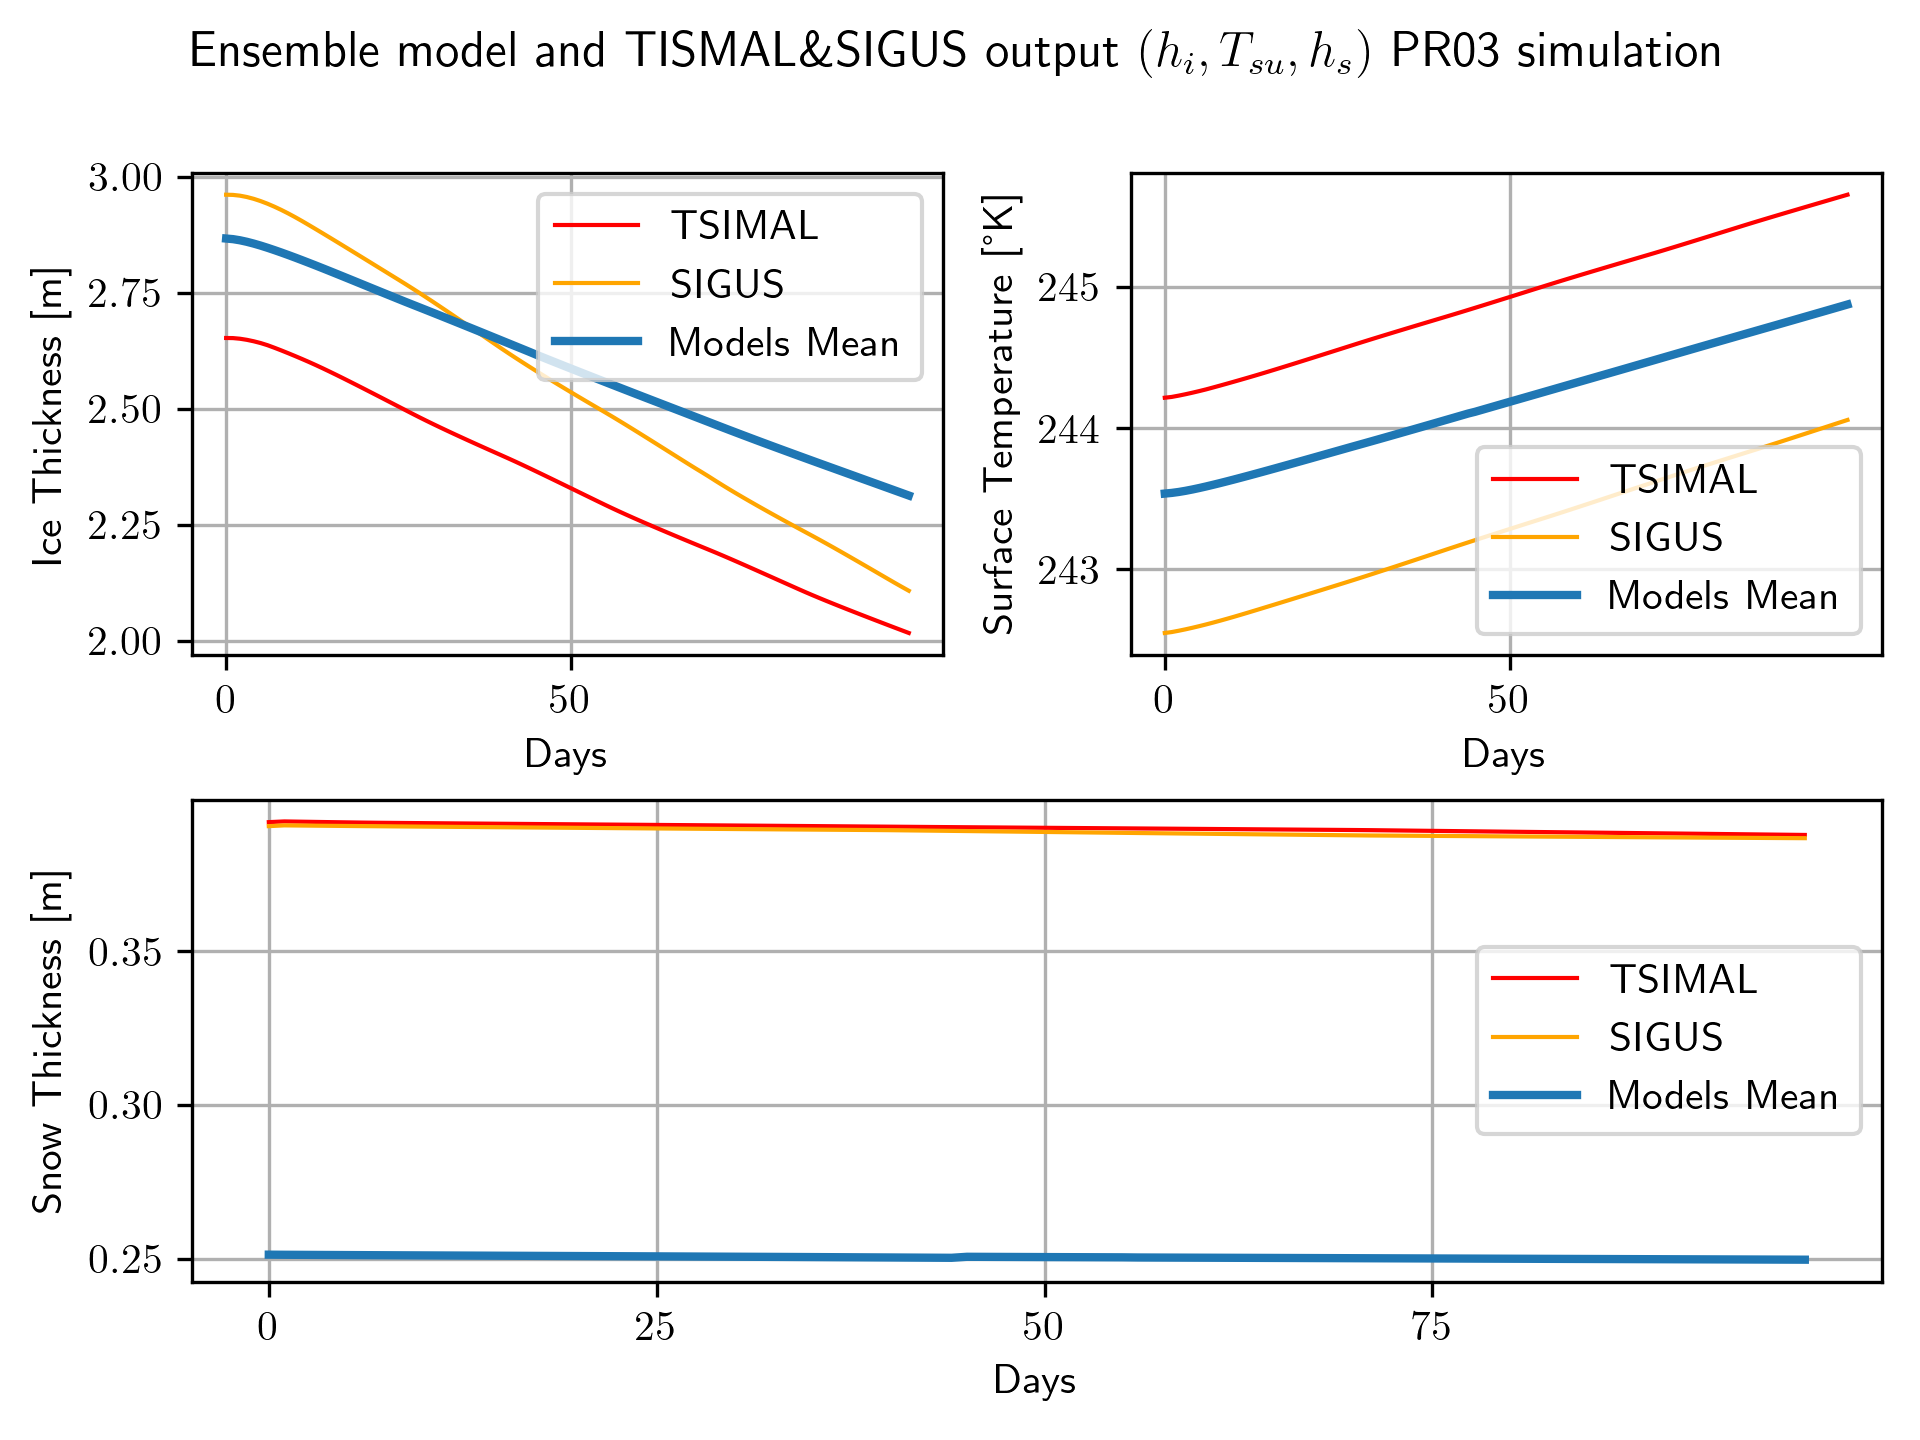
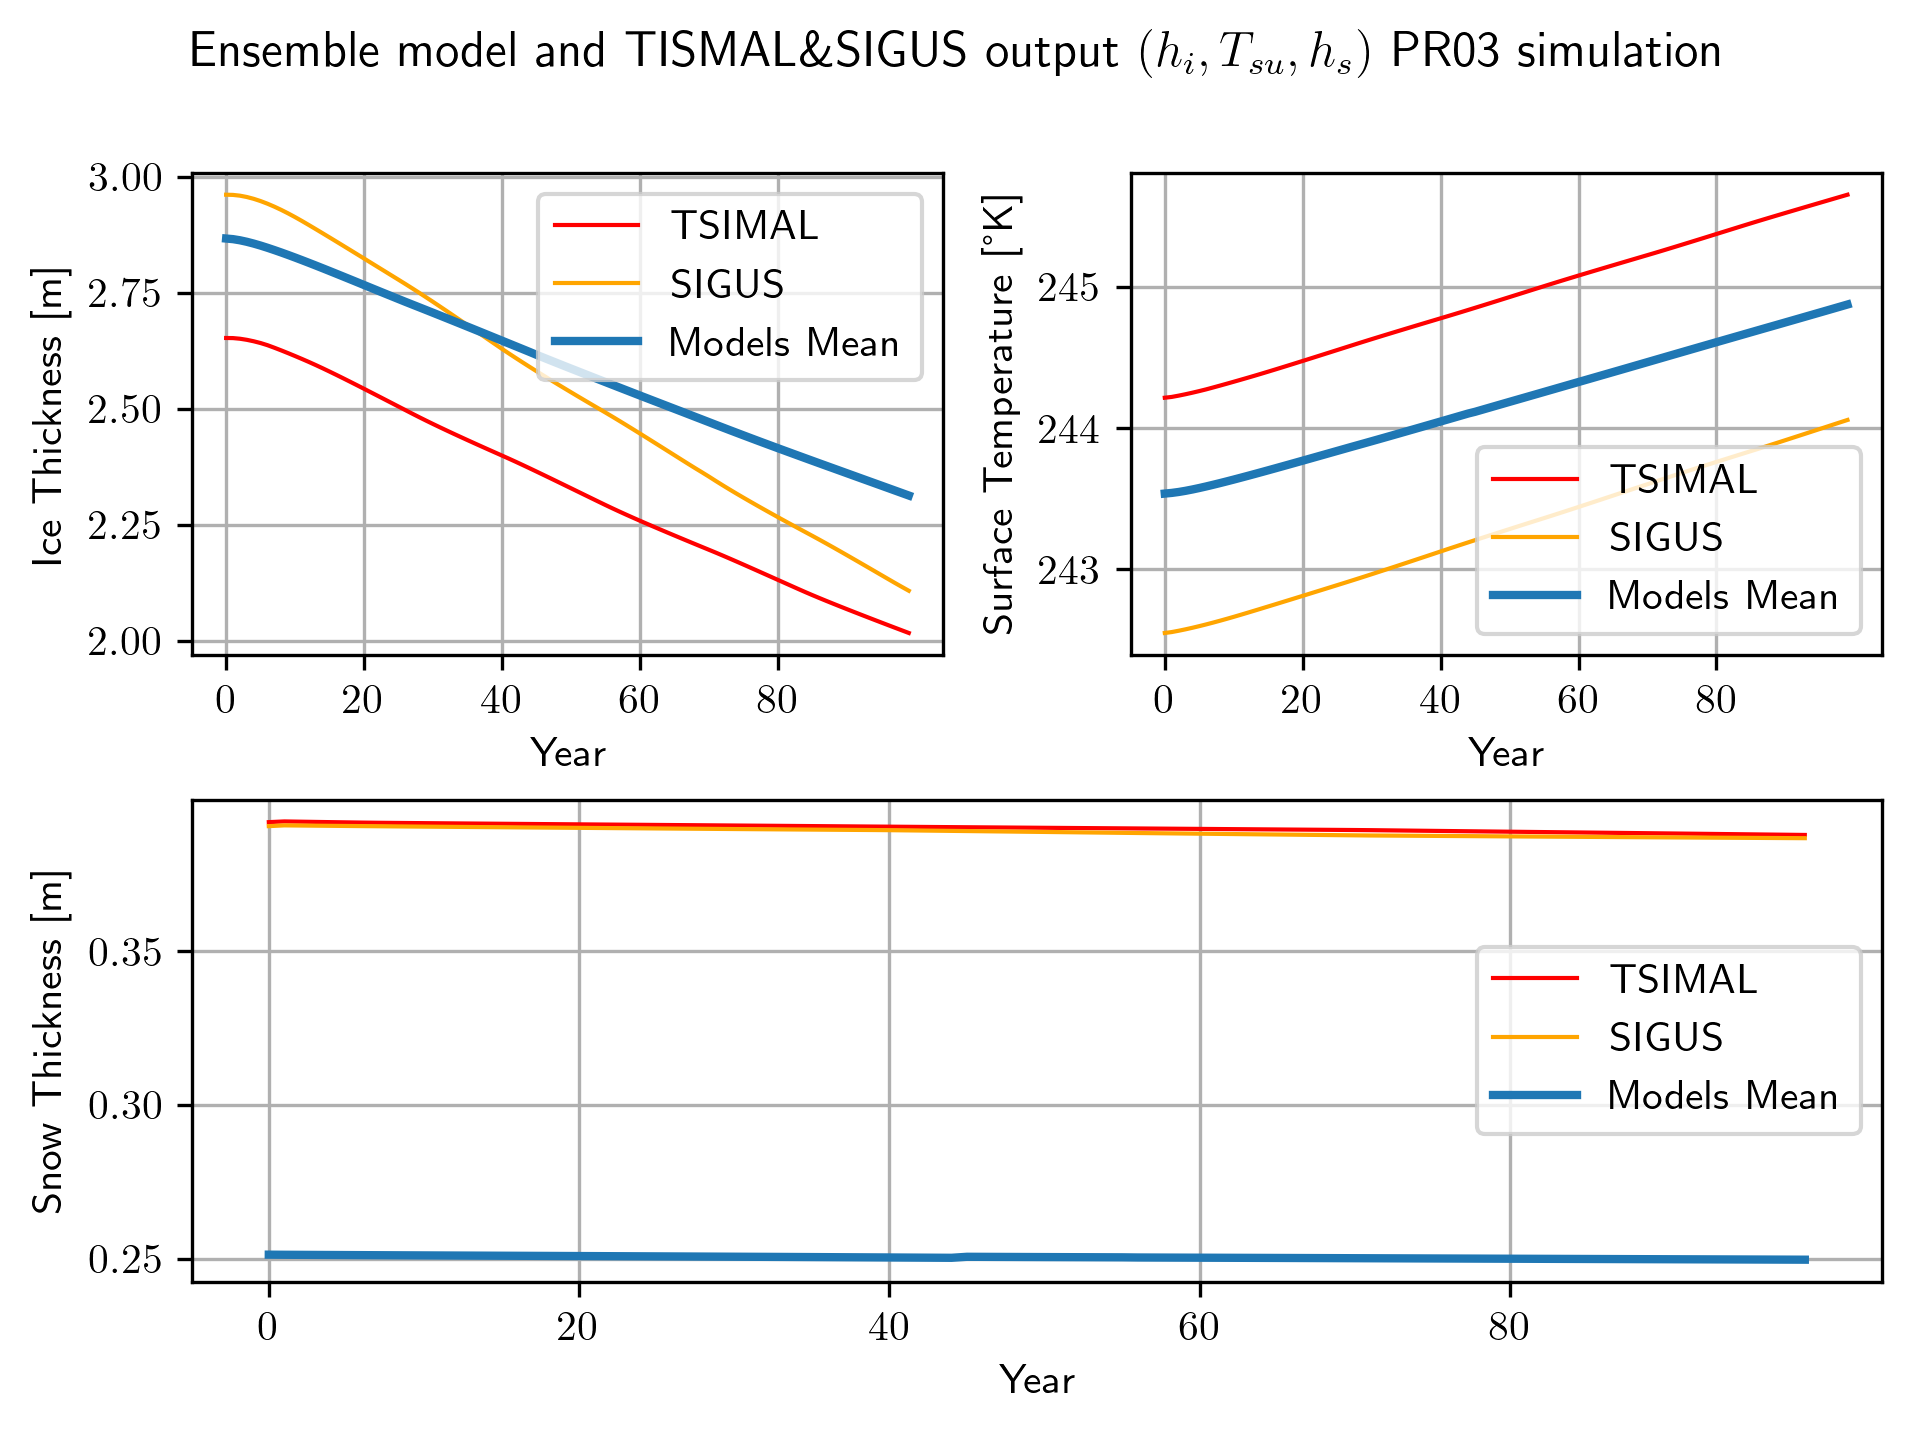
Corr x_ticks subplot TSIMAL&SIGUS + Fig

diff --git a/Ensemble Projections/data_analysis.py b/Ensemble Projections/data_analysis.py
@@ -708,23 +708,26 @@ def subplot_TSIMAL_SIGUS_ENS(data1, data2, data3, N_mod, extra_label):
         time_range = time_range_ctl
         Nbre = N_days_CTL
         label_x = "Days"
+        x_ticks = np.arange(Day_0, 365, 50)
     if np.shape(data1)[0] == 12:
         time_range = time_range_ctl_month
         Nbre = N_month_CTL
         label_x = "Month"
+        x_ticks = np.arange(Day_0, 12, 6)
     elif np.shape(data1)[0] == 100:
         time_range = time_range_pr
         Nbre = N_years_PR
         label_x = "Year"
+        x_ticks = np.arange(Day_0, 100, 20)
     ### Figure 1 ###
     ax = plt.subplot(gs[0, 0])  # row 0, col 0
     plt.plot(time_range, data1[:, 13], linewidth=1, label="TSIMAL", color="red")
     plt.plot(time_range, data1[:, 11], linewidth=1, label="SIGUS", color="orange")
     mod_mean = mean_all_mod(data=data1, N=Nbre, N_mod=N_mod)
     plt.plot(time_range, mod_mean, linewidth=2, color="tab:blue", label=r"Models Mean")
-    plt.xlabel("Days", size=10)
+    plt.xlabel(label_x, size=10)
     plt.ylabel("Ice Thickness [m]", size=10)
-    plt.xticks(np.arange(0, Nbre, 50), fontsize=10)
+    plt.xticks(x_ticks, fontsize=10)
     plt.yticks(fontsize=10)
     plt.grid()
     plt.legend(fontsize=10)
@@ -735,9 +738,9 @@ def subplot_TSIMAL_SIGUS_ENS(data1, data2, data3, N_mod, extra_label):
     plt.plot(time_range, data2[:, 11], linewidth=1, label="SIGUS", color="orange")
     mod_mean = mean_all_mod(data=data2, N=Nbre, N_mod=N_mod)
     plt.plot(time_range, mod_mean, linewidth=2, color="tab:blue", label=r"Models Mean")
-    plt.xlabel("Days", size=10)
+    plt.xlabel(label_x, size=10)
     plt.ylabel("Surface Temperature [°K]", size=10)
-    plt.xticks(np.arange(0, Nbre, 50), fontsize=10)
+    plt.xticks(x_ticks, fontsize=10)
     plt.yticks(fontsize=10)
     plt.grid()
     plt.legend(fontsize=10)
@@ -748,9 +751,9 @@ def subplot_TSIMAL_SIGUS_ENS(data1, data2, data3, N_mod, extra_label):
     plt.plot(time_range, data3[:, 11], linewidth=1, label="SIGUS", color="orange")
     mod_mean = mean_all_mod(data=data3, N=Nbre, N_mod=N_mod)
     plt.plot(time_range, mod_mean, linewidth=2, color="tab:blue", label=r"Models Mean")
-    plt.xlabel("Days", size=10)
+    plt.xlabel(label_x, size=10)
     plt.ylabel("Snow Thickness [m]", size=10)
-    plt.xticks(np.arange(0, Nbre, 25), fontsize=10)
+    plt.xticks(x_ticks, fontsize=10)
     plt.yticks(fontsize=10)
     plt.grid()
     plt.legend(fontsize=10)
